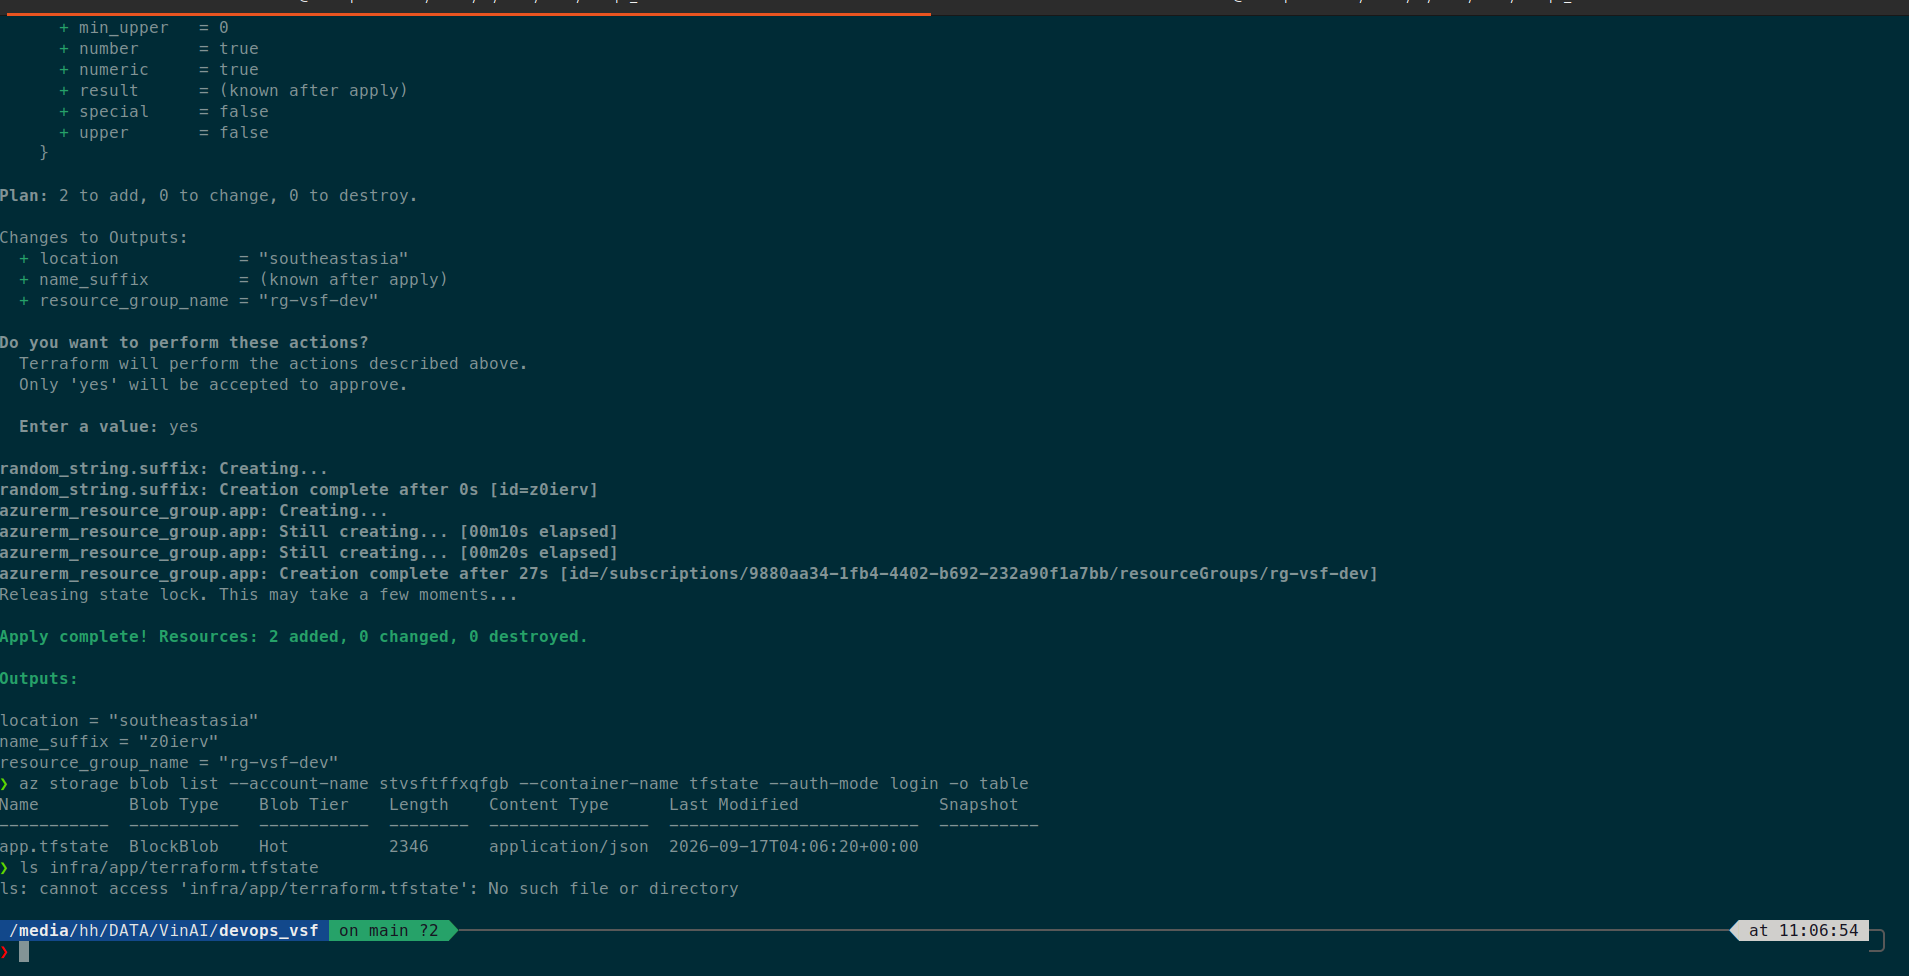
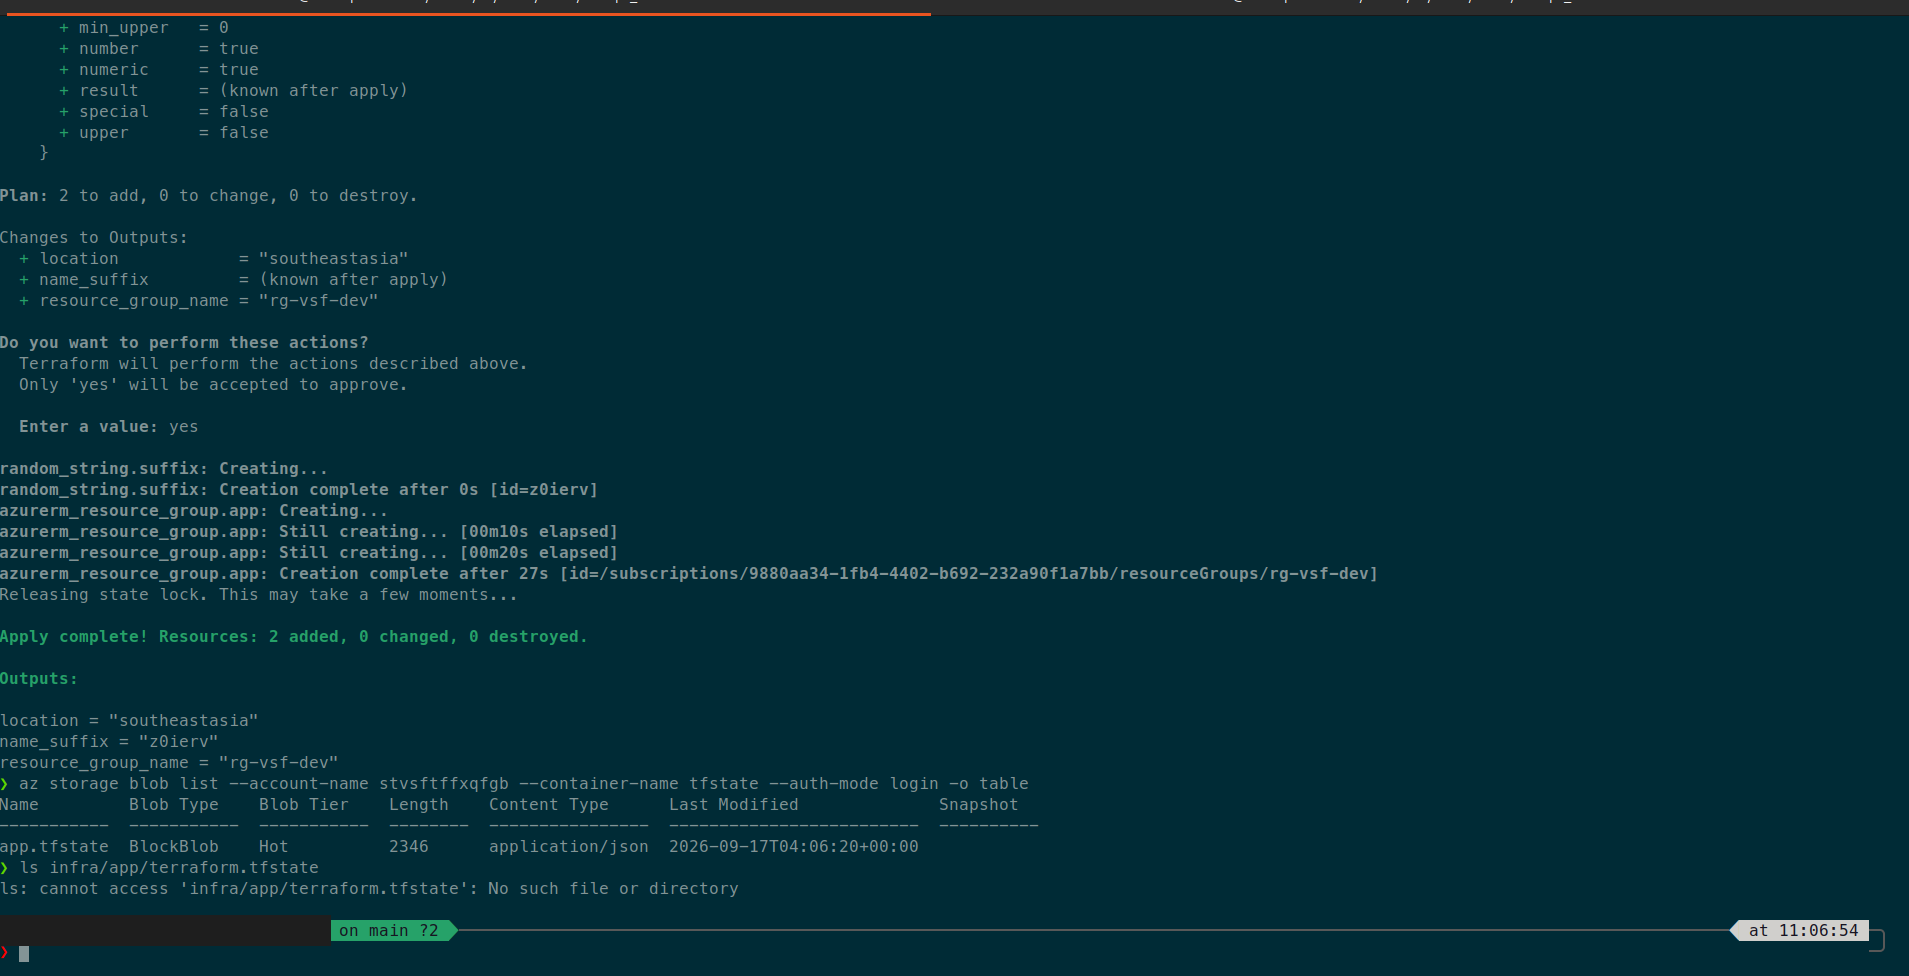
fix(d25): xử lý review Sonnet vòng 1 — preflight thử lại, che IP nhà + đường dẫn công ty, strict ruleset

Changed region(s): [[0.0, 0.9221, 0.1854, 0.9836]]

diff --git a/known-issues.md b/known-issues.md
@@ -19,7 +19,7 @@ Ba mục theo yêu cầu đề bài: **cái gì chưa xong** · **cái gì biế
 | # | Vấn đề | Vì sao chấp nhận | Hệ quả nếu bỏ qua |
 |---|---|---|---|
 | 1 | **Mật khẩu MySQL của D3 đã lộ ra stdout** (`az mysql flexible-server create` in `password` và `connectionString`), không xoay vòng | server bị xoá trong ngày, dữ liệu là dữ liệu thử | Ở môi trường thật phải đổi mật khẩu ngay. Từ D9 mật khẩu do `random_password` sinh và nằm trong Key Vault |
-| 2 | Ảnh trong `evidence/d02`, `d03` có **email cá nhân** và **IP nhà** ở góc màn hình | repo đang private | Nếu chuyển public phải che trước |
+| 2 | ~~Ảnh trong `evidence/d02`, `d03` có **email cá nhân** và **IP nhà** ở góc màn hình~~ — **đã che 02/10** ở bản hiện tại (#35); lịch sử git còn | repo đang private | Nếu chuyển public: tạo repo mới từ bản đã che (#35) |
 | 3 | Hook `pre-commit` nằm trong `.git/hooks/` nên **không theo repo** | giới hạn của git | Người clone mới phải tự cài; README ở D24 phải ghi rõ; CI là lớp chặn thật |
 | 4 | Ảnh chụp của **D1 đã mất** (bộ nhớ đệm phiên chat bị xoá) | không khôi phục được | Nội dung đã chuyển thành chữ trong `notes/d1.md`; từ D2 ảnh lưu thẳng vào repo |
 | 5 | `evidence/` nặng ~5.6 MB toàn ảnh PNG | chưa ảnh hưởng | Nếu vượt ~50 MB nên cân nhắc nén hoặc Git LFS |
@@ -52,7 +52,7 @@ Ba mục theo yêu cầu đề bài: **cái gì chưa xong** · **cái gì biế
 | 32 | **Giới hạn của bộ DevSecOps (PR 01/10).** (1) Semgrep **không parse được** `ci.yml`/`cd.yml` (`Other syntax error … error calling parser: did not find expected alphabetic or numeric character` quanh `cd.yml:101`, `ci.yml:362`; nguyên nhân chưa rõ) nên rule `p/github-actions` chỉ thật sự chạy trên `agent-triage.yml`, `drift.yml`, `m6-check.yml` — từ 02/10 cổng Semgrep **đỏ** nếu có lỗi quét nào khác 2 lỗi parse này (review P2-4: bỏ `|| true`, kiểm `.errors` theo path + type); (2) ZAP baseline **chỉ cảnh báo**, không chặn swap; (3) ~~Dependabot PR có thể đỏ ở job cần Azure~~ — **đã kiểm 01/10**: PR Dependabot #80 có `azure login` + `terraform plan` xanh (run `36833717832`); PR Dependabot **không có mục `## AI usage`** (bot, không phải AI sinh code) và bản nâng **major** (#78 `@types/node`, #79 `eslint` 10 — CI đỏ `frontend`) cần người duyệt riêng, cấu hình đã bỏ qua major cho npm từ 01/10; (4) action chưa ghim SHA (Semgrep cảnh báo `github-actions-mutable-action-tag`, chỉ theo dõi) | Repo private không có GHAS (không CodeQL); ZAP chưa có ngưỡng thống nhất; ghim SHA tốn công sửa toàn bộ workflow | (1) lỗi GitHub Actions trong 2 file lớn nhất không được SAST bắt — review tay; (2) header bảo mật thiếu chỉ thấy trong artifact ZAP; (3) nếu đỏ: cho job Azure `if: github.actor != 'dependabot[bot]'` là KHÔNG được (job bị skip = qua required check) — phải tìm cách khác; (4) action bị chiếm tag có thể chạy code lạ với `id-token: write` |
 | 33 | **Rà soát code 30/09 (`notes/review-2026-09-30.md`, phiên Claude cloud, nhánh `claude/admiring-ramanujan-iov036`) — phần CHƯA sửa.** Đã sửa 01/10 (PR review): #4 preflight CD nuốt lỗi `az`, #5 tự gán assignee ghi đè (CAS `assignee IS NULL`), #6 comment alert MySQL, #7 tên rỗng/ký tự điều khiển sau decode, #8 kanban không lấy ticket server trả về, #9 ghim Node ≥ 24 (`engines`, `.nvmrc`), #10 hook trong repo (`scripts/hooks/`), #11 log request khi có exception, #13 kẹp offset, #14 kiểm khoảng port, #15 CI chạy tay, #16 `.env.example`. **Còn lại:** #1 `id-gh-plan` (subject `pull_request`) đọc được secret DB (~~+ ghi state~~ — **đã sửa 01/10**, PR #88: Blob Data **Reader** + plan `-lock=false`, apply bootstrap `1 added, 1 destroyed`, drift run `36882760730` plan được bằng quyền mới; phần đọc secret không bỏ được); ~~#2 `fe` dùng chung identity với `be`~~ (**đã sửa 01/10**, PR #87: `id-vsf-fe-<s>` chỉ AcrPull + Secrets User trên secret appinsights; apply 2 pha, `fe` 20/20 lần 200 trong lúc đổi, KV reference `Resolved`, `plan` No changes); #3 app dùng tài khoản admin MySQL; #12 image/action/binary không ghim digest/SHA/checksum; #17 định danh Azure trong repo | #1, #2 đổi quyền hạ tầng (cần apply, người dùng duyệt riêng); #3 `azurerm` không tạo user MySQL được, cần provider `mysql` hoặc script; #12 chi phí bảo trì > giá trị ở quy mô bài; #17 không phải secret | #1: người mở được PR = đọc được mật khẩu DB (cùng mức tin cậy với người đọc state); #2: RCE/SSRF ở `fe` → token IMDS → đọc mật khẩu DB; #3: nếu có SQLi thì toàn quyền server |
 | 34 | **Luật AI-OFF tuần 1 (D1–D5) không được giữ trọn.** PR #1 (merge 17/09, D4–D6) tự khai trong `## AI usage`: Claude Code sinh scaffolding app, **Dockerfile (D5)** và **CI workflow (D6)**; `ai-failure-log.md` #1, #2 (16/09, D2–D3) là lệnh `az` do AI đưa ra. `CLAUDE.md` cấm AI sinh Dockerfile/lệnh `az` trong D1–D5. Review Sonnet 01/10 P1-4 phát hiện; người dùng chốt 02/10: **ghi nhận thật, không viết lại lịch sử** | Không sửa được sau khi đã xảy ra; phần AI viết đã được khai đúng chỗ (PR #1, ai-failure-log) chứ không giấu. Từ D7 mọi PR có `## AI usage` theo luật | Mentor chấm "tự làm tuần 1" thấp hơn; kỹ năng viết Dockerfile/CI v1 bằng tay chưa được chứng minh — bù bằng giải thích từng dòng khi demo nếu mentor hỏi |
-| 35 | **IP thoát công ty + email + tên tab công cụ nội bộ từng nằm trong repo** (review Sonnet 01/10 P2-8, quét lại 02/10). Đã che ở bản hiện tại: IP `104.30.x.x` trong 9 file chữ + ảnh M6 (`evidence/d19/…m6-access-restrictions…png`), nhãn wifi công ty (`notes/d17.md`, #19), email header Portal trên 26 ảnh `evidence/d02`, `d05`, dải tab trình duyệt (gitlab/V-Office/ZTNA công ty) trên 7 ảnh `evidence/d11` | **Lịch sử git vẫn còn bản cũ** — xoá hẳn phải viết lại lịch sử `main` (force-push nhánh chung, trái luật repo). Repo private | Ai có quyền đọc repo xem được commit cũ. Nếu cần xoá hẳn: hỏi mentor, dùng `git filter-repo` trên bản sao rồi tạo repo mới, không force-push `main` |
+| 35 | **IP thoát công ty + email + tên tab công cụ nội bộ từng nằm trong repo** (review Sonnet 01/10 P2-8, quét lại 02/10). Đã che ở bản hiện tại: IP `104.30.x.x` trong 9 file chữ + ảnh M6 (`evidence/d19/…m6-access-restrictions…png`), nhãn wifi công ty (`notes/d17.md`, #19), **IP nhà** (`evidence/M6.md`, `notes/d2.md`, `d3-cli.md`, `d16.md` + 1 ảnh `d03`), email header Portal trên 26 ảnh `evidence/d02`, `d05`, dải tab trình duyệt (gitlab/V-Office/ZTNA công ty) trên 7 ảnh `evidence/d11`, đường dẫn thư mục mang tên công ty (`notes/d6.md` + 4 ảnh terminal `d02`, `d07`) | **Lịch sử git vẫn còn bản cũ** — xoá hẳn phải viết lại lịch sử `main` (force-push nhánh chung, trái luật repo). Repo private | Ai có quyền đọc repo xem được commit cũ. Nếu cần xoá hẳn: hỏi mentor, dùng `git filter-repo` trên bản sao rồi tạo repo mới, không force-push `main` |
 
 ## Làm lại thì làm khác chỗ nào
 

diff --git a/notes/d2.md b/notes/d2.md
@@ -63,7 +63,7 @@ Mật khẩu admin MySQL: **không ghi vào file này, không dán vào chat.**
   - Inbound IPv4 của app: 52.187.36.104 · Public network access: **Enabled with no access restrictions** (bước 7 sẽ siết)
   - Ảnh: `evidence/d02/screenshots/alwayson-enabled-…`, `evidence/d02/screenshots/slots-unlocked-p0v3-…`, `evidence/d02/screenshots/outbound-ips-…`
 - [x] 5. MySQL firewall (10:25–10:35): thêm tay `app-ip-1` = 20.198.207.165 và `app-ip-2` = 20.247.250.201 (mới 2/19 possible IP — công việc này D8 giao cho Terraform)
-  - **Sự cố thật:** đổi wifi giữa buổi → IP đổi 113.185.45.1 → 59.153.228.90; rule cũ hết tác dụng, kết nối 3306 timeout. Portal hiển thị IP cũ ở dòng "+ Add current client IP address" cho tới khi tải lại trang
+  - **Sự cố thật:** đổi wifi giữa buổi → IP đổi 113.185.x.x → 59.153.x.x; rule cũ hết tác dụng, kết nối 3306 timeout. Portal hiển thị IP cũ ở dòng "+ Add current client IP address" cho tới khi tải lại trang
   - Bài học cho runbook D22: triệu chứng là **treo rồi timeout**, không phải "access denied"; kiểm tra IP nguồn trước khi nghi ngờ mật khẩu
 - [x] 6. Kết nối MySQL từ máy (10:37) bằng `mysql-client` 8.4 + `--ssl-mode=REQUIRED`
   - Server: **8.4.9-azure**, connection id 12
@@ -74,7 +74,7 @@ Mật khẩu admin MySQL: **không ghi vào file này, không dán vào chat.**
 
   | Kiểm tra | Nguồn | Kết quả |
   |---|---|---|
-  | Luật đã lưu | CLI | `100 allow-my-ip 59.153.228.90/32 → Allow` · `2147483647 Deny all Any → Deny` |
+  | Luật đã lưu | CLI | `100 allow-my-ip 59.153.x.x/32 → Allow` · `2147483647 Deny all Any → Deny` |
   | Site SCM/Kudu | CLI | `scmIpSecurityRestrictionsUseMain = True` → **dùng chung luật site chính**, không cần luật riêng |
   | Từ IP được phép | curl trên máy | **HTTP 200** (0.47s) |
   | Từ IP khác (điện thoại LTE) | trình duyệt | **Error 403 - Forbidden** — "The web app you have attempted to reach has blocked your access" |
@@ -85,7 +85,7 @@ Mật khẩu admin MySQL: **không ghi vào file này, không dán vào chat.**
 - [x] 8. Deployment slot `staging` + swap (10:55–11:48)
   - Slot `app-d2-3082-staging` Running, **dùng chung App Service Plan** `ASP-rgd2manual-8c56`, Traffic 0%
   - Host: `app-d2-3082-staging-hvdvaxhvd7eqg6ap.southeastasia-01.azurewebsites.net`
-  - ✅ **Clone settings có copy access restriction**: slot cũng có `allow-my-ip 59.153.228.90/32 → Allow` + `Deny all → Deny`, `scmUseMain: True`
+  - ✅ **Clone settings có copy access restriction**: slot cũng có `allow-my-ip 59.153.x.x/32 → Allow` + `Deny all → Deny`, `scmUseMain: True`
   - ⚠ **Nhưng KHÔNG copy container image**: `sitecontainers` của production = `mcr.microsoft.com/appsvc/staticsite:latest`, của slot = rỗng → gọi slot từ IP được phép trả **HTTP 503**
   - → Bài học cho D16/D17: **CD phải chỉ định image cho slot staging trước khi swap**, nếu không swap sẽ đẩy một slot rỗng lên production
   - **11:05 — gán image cho slot** qua Deployment Center của slot: registry `mcr.microsoft.com`, image and tag `appsvc/staticsite:latest`, port 80, image type **Public** → slot trả **HTTP 200** (3 lần curl liên tiếp)

diff --git a/notes/d3-cli.md b/notes/d3-cli.md
@@ -22,16 +22,16 @@ Mật khẩu MySQL: **không gõ thẳng vào dòng lệnh** (nó vào `~/.zsh_h
 - [x] 0. Azure CLI **2.90.0** (extension `scheduled-query`), đúng subscription
 - [x] 1. RG `rg-d3-cli` (southeastasia) — CLI bắt khai báo `--location`, Portal chỉ chọn dropdown
 - [x] 2. MySQL `mysql-d3-3082` — **5 phút 37 giây**, tạo lúc 13:51
-  - CLI in ra 3 thứ Portal giấu: `IOPS is 360` (miễn phí theo storage+SKU, thêm thì $0.06/IOPS-tháng) · `(Paid Tier)` · tự tạo firewall rule `FirewallIPAddress_2026-9-16_13-51-25` cho IP `113.185.49.82`
+  - CLI in ra 3 thứ Portal giấu: `IOPS is 360` (miễn phí theo storage+SKU, thêm thì $0.06/IOPS-tháng) · `(Paid Tier)` · tự tạo firewall rule `FirewallIPAddress_2026-9-16_13-51-25` cho IP `113.185.x.x`
   - `--database-name d3test` tạo sẵn database; ở D2 phải tự `CREATE DATABASE` bằng SQL
-  - IP đổi 3 lần trong ngày: 113.185.45.1 → 59.153.228.90 → 113.185.49.82
+  - IP đổi 3 lần trong ngày: 113.185.x.x → 59.153.x.x → 113.185.x.x
 - [x] 3. App Service Plan `asp-d3-cli` (Linux, P0V3) — **8.6 giây**
 - [x] 4. Web App `app-d3-3082` — **42 giây**, `HTTP 200`; tổng cả 3 resource ~6 phút (Portal D2 mất ~2 tiếng cả thao tác)
 - [x] 5. Outbound IPs: **current 7 / possible 20** (đếm bằng `-o tsv | tr ',' '\n' | wc -l`; JMESPath không có `split()`)
 - [x] 6. Vòng lặp shell tạo **20 firewall rule** (tên `app-<ip-gạch-ngang>`, vì tên rule không cho dấu chấm) → tổng **21 rule** = 20 app + 1 client IP
   - 20 lần gọi API riêng biệt; Portal phải gõ tay 20 dòng
   - Script chỉ **thêm**, không bao giờ **xoá** rule thừa khi danh sách possible đổi → rác tích tụ, không biết rule nào còn dùng
-- [x] 7. Access restriction (15:52) — `allow-my-ip 116.98.220.176/32 Allow 100` + `Deny all` mặc định
+- [x] 7. Access restriction (15:52) — `allow-my-ip 116.98.x.x/32 Allow 100` + `Deny all` mặc định
   - Main site **200** từ IP mình ✅ · **SCM/Kudu 403 kể cả với mình** ⚠
   - Lý do: `scmIpSecurityRestrictionsUseMain = false` và danh sách SCM **chỉ có Deny all**, không có rule allow nào. Portal D2 tick sẵn *Use main site rules*; CLI thì phải khai `--use-same-restrictions-for-scm-site true`
   - → nếu CD deploy qua Kudu sẽ gãy mà không rõ lý do (bài học cho D16)

diff --git a/cost-report.md b/cost-report.md
@@ -46,7 +46,7 @@ dùng (để làm D16–D20 liền mạch, không dựng lại mỗi sáng). Tí
 `evidence/raw/d25-cost-api-20261001.tsv`: `rg-vsf-dev` **$19,38** (App Service $17,83 · ACR $1,44 · Azure Monitor $0,10
 · Key Vault $0,01 · MySQL $0,00) · bài thực tập tổng **≈ $19,9**. Từ 25/09 mỗi ngày **$2,13–2,18** = đúng 24 giờ P0v3
 ($1,97) + ACR Basic ($0,17): môi trường bật liên tục, Log Analytics/App Insights gần như không tốn (< 5 GB/tháng miễn phí).
-Phần "đáng lẽ tránh được" của biện pháp 1 tăng từ $8,7 (28/09) lên ≈ **$16** (24/09 03:08Z → 01/10 17Z = 182 giờ × $0,089). PoC ngoài repo
+**Số chốt cho "đáng lẽ tránh được" của biện pháp 1: ≈ $16** (thay $8,7 ở trên, tính tới 28/09) (24/09 03:08Z → 01/10 17Z = 182 giờ × $0,089). PoC ngoài repo
 (`rg-obs-poc` + 1 web app chung plan) ≈ $20,5 — không tính. Ảnh Cost analysis cuối cùng: chụp sau demo (guide D25 mục 4).
 
 **MySQL $0,00:** theo giá niêm yết, ~140 giờ B1ms đáng lẽ ~$3,6. Khớp với ưu đãi 12 tháng của tài khoản
@@ -59,8 +59,9 @@ theo giá niêm yết đủ MySQL (B1ms + 20 GB storage), chưa kể Log Analyti
 ## Chưa tối ưu / lần sau
 
 - **Biện pháp tiết kiệm nhiều nhất là tắt theo ca**: P0v3 là ~93% chi phí (`$11,27 / $12,15`), mà plan
-  tính tiền theo giờ tồn tại (kể cả khi app Stop). Đã bỏ nó từ 24/09 → nên bật lại `make down` sau D20
-  khi không cần môi trường chạy liên tục.
+  tính tiền theo giờ tồn tại (kể cả khi app Stop). Đã bỏ nó từ 24/09 và **không bật lại được trước D25**: một PoC
+  khác chạy chung plan, `make down` sẽ gãy (`known-issues.md` #23) — người dùng chốt giữ môi trường tới demo. Sau demo: gỡ PoC
+  rồi `make down`.
 - Chạy cho người dùng thật 24/7: giữ P0v3 + autoscale; cân nhắc reserved instance / savings plan cho plan
   thường trực; MySQL bật HA + backup dài hơn (đổi tiền lấy độ bền); App Insights sampling < 100%.
 - Budget $50/tháng đang có (D1), alert 50/80/100% — chưa gắn action group.

diff --git a/evidence/README.md b/evidence/README.md
@@ -45,7 +45,7 @@ File `MXX.md` trỏ ngược tới ảnh/log trong `dXX/`, không copy trùng.
 | M6 | IP whitelist 200/403 | **`M6.md` — ĐẠT** (D13; đo lại 8 bề mặt be+fe ở D16); thiếu 2 ảnh Portal (plan "Còn nợ") |
 | M7 | Chiến lược tiết kiệm chi phí | **`M7.md` — ĐẠT**: autoscale + right sizing (D19), cost report [`../cost-report.md`](../cost-report.md) (D20) |
 | M8 | Terraform toàn bộ hạ tầng | `M8.md` — **ĐẠT** ở D10 (destroy → apply từ rỗng); D24: clone mới theo README → plan/apply 0 thay đổi, **không destroy** (giới hạn ghi trong file) |
-| M9 | CI chặn được cái sai | **`M9.md` — ĐẠT** (D14: 8 required check, 6 PR cố tình sai đều đỏ đúng job) |
+| M9 | CI chặn được cái sai | **`M9.md` — ĐẠT** (D14: 8 required check lúc đó — nay **9** sau job `sast + iac` 01/10; 6 PR cố tình sai đều đỏ đúng job) |
 | M10 | CD deploy từ main | **`M10.md` — ĐẠT** (D16; swap an toàn D17) |
 | M11 | Monitoring | **`M11.md` — ĐẠT** (D20–D22: Workbook 5 mảng, KQL, tracing be + fe, 3 alert, drill Fired → Resolved, runbook đi thử; **email tới thật 01/10**, 4 ảnh `d24/screenshots/alert-email-*`) — [`tracing.md`](tracing.md), `docs/logging.md`, `runbook.md` |
 

diff --git a/docs/plans/active/azure-app-service-internship.md b/docs/plans/active/azure-app-service-internship.md
@@ -387,7 +387,7 @@ Mục tiêu: tự tay làm được mọi thứ mà tuần 2–4 sẽ tự độ
 
 ### D25 — Demo 45 phút (live, không slide)
 - [x] Kịch bản demo (soạn 01/10 — `notes/d25-prep.md` mục 3; **chưa chạy thử**) theo thứ tự: repo → CI chặn secret → merge → CD + poll zero-downtime → whitelist 200/403 → `/items` → xoá quyền KV → `/load` autoscale → `/boom` alert → **alert → trace_id → log/request** → dashboard/KQL → rollback (swap ngược) → cost
-- [ ] `make up` trước demo ≥ 30 phút; `make down` sau demo — *đổi 01/10: môi trường `jcip0s` đang bật, T−60 = `scripts/demo-preflight.sh`; `make down` cần gỡ PoC trước (#23, quyết định E)*
+- [ ] `make up` trước demo ≥ 30 phút; `make down` sau demo — *đổi 01/10: môi trường `jcip0s` đang bật, T−60 = `scripts/demo-preflight.sh`; `make down` cần gỡ PoC trước (#23, quyết định B)*
 - [ ] Chạy thử đủ kịch bản trong 45 phút, bấm giờ → `notes/d25.md`
 - [ ] Demo live · cost analysis cuối → `cost-report.md` · câu hỏi mentor → `known-issues.md` · plan → `completed/`
 

diff --git a/notes/d16.md b/notes/d16.md
@@ -236,7 +236,7 @@ $ 3 job, outputs của preflight khớp mọi chỗ needs.preflight.outputs.*
 Môi trường lần này suffix **`gdiz89`**: `app-vsf-gdiz89` (be), `fe-vsf-gdiz89` (fe),
 `acrvsfgdiz89`, `kv-vsf-gdiz89`, `mysql-vsf-gdiz89-sea`.
 
-IP whitelist đo lại trước khi apply: **45/45 mẫu ra đúng một địa chỉ** `113.23.105.56`
+IP whitelist đo lại trước khi apply: **45/45 mẫu ra đúng một địa chỉ** `113.23.x.x`
 (40 lần `curl -4 api.ipify.org` + 5 lần đối chứng `ifconfig.me`, WARP đã tắt). Khác hẳn D13
 sáng 23/09 — lúc đó hotspot thoát qua **hai** địa chỉ tỉ lệ 50/50. Hai IP cũ đã **bỏ** khỏi
 `terraform.tfvars`: whitelist chỉ khai thứ đo được, giữ IP cũ là mở cửa cho địa chỉ giờ đã

diff --git a/evidence/M6.md b/evidence/M6.md
@@ -288,7 +288,7 @@ run 35906003952  — fe, source_ip=172.182.224.200
 Cả hai run đều `success`, mà job này `exit 1` nếu **bất kỳ** bề mặt nào lệch mã mong đợi — nên
 "xanh" ở đây nghĩa là đủ 4/4, không phải "chạy xong".
 
-Từ **IP trong whitelist** (máy làm việc, `113.23.105.56`, WARP đã tắt), mong đợi 200:
+Từ **IP trong whitelist** (máy làm việc, `113.23.x.x`, WARP đã tắt), mong đợi 200:
 
 ```
 $ curl -4 -s -o /dev/null -w "%{http_code}"

diff --git a/notes/d6.md b/notes/d6.md
@@ -27,7 +27,7 @@ Kiểm chứng ở bước 5: push thẳng `main` phải bị từ chối. Nếu
 Repo sẽ private, nhưng vẫn phải sạch: mentor và bạn intern kia sẽ đọc, và về sau có thể phải mở public.
 
 ```bash
-cd /media/hh/DATA/VinAI/devops_vsf
+cd <thư mục repo>
 gitleaks detect --no-git -v            # quét toàn bộ file trong thư mục
 ```
 
